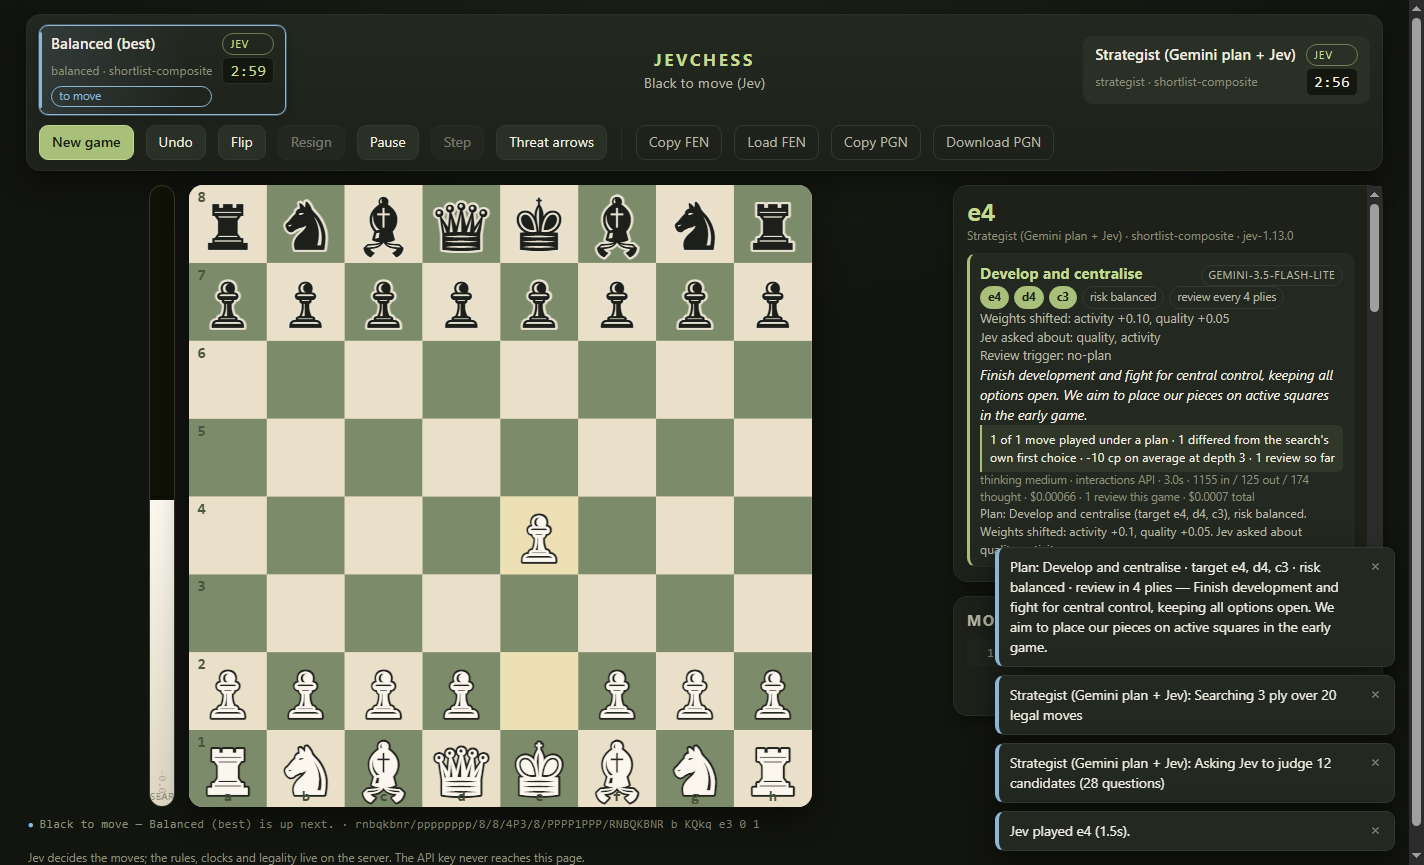
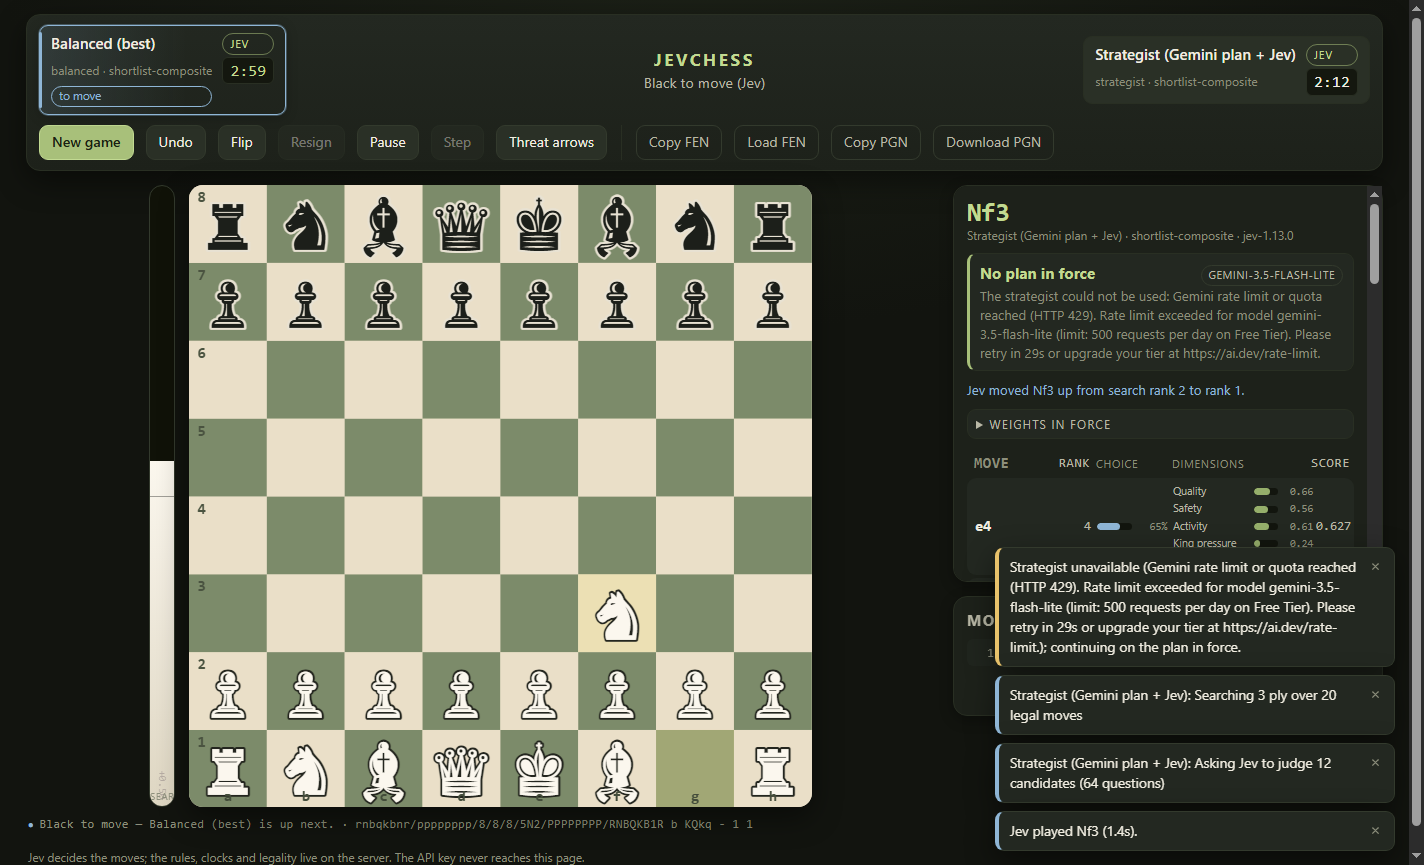
Correct the strategy-layer claim, and let the check tell one game from another
The routing-only match is in (8 clean games, 2 excluded), and it does not
support what the README asserted after the first match. The point estimates
still order the way the hypothesis says — strategist -88 cp per re-judged
deviation (n=37), routing-only -44 cp (n=45), no plan at all -32 cp (n=80) —
but a Welch comparison of the per-move deltas gives |t| = 1.6, 1.2 and 0.6:
none clears |t| > 2. The spread is 95-200 cp per move, so 37-80 samples cannot
separate these. The README now says exactly that, and what *is* robust: the
planner's deviations come out worse about four times as often as better, which
is a statement about Jev plus the plan, not a significance test. Head to head
the planning seat is a coin flip again (4/8).

Two of the ten games hit the harness's 15-minute per-game deadline at 37-56
plies — the machine was busy because I restarted the app server mid-run. They
are excluded from every number above and the README says so; `--max-plies` and
a quiet machine are the fix.

Also fixed here, both found by the check failing rather than by reading:

  * the browser check polled "move list has rows" to detect a new game, which
    the *previous* game already satisfied — so it read the previous game's plan
    panel and reported the routing preset as shifting weights. The page now
    exposes `document.body.dataset.gameId`, and the check waits for that to
    change before it looks at anything;
[…]

diff --git a/src/strategies.js b/src/strategies.js
@@ -206,8 +206,9 @@ export const PRESETS = [
     name: "Strategist (routing only)",
     description:
       "The same Gemini planning step as the Strategist, minus the weight shift: the plan may choose which of " +
-      "Jev's questions to ask, but the preset's weights stay exactly as they are. This is the control for the " +
-      "one part of the strategy layer that measured as costing material.",
+      "Jev's questions to ask, but the preset's weights stay exactly as they are. Built as the control for the " +
+      "weight shift, which carries the largest measured cost so far (-88 cp per re-judged deviation, against " +
+      "-32 cp for the same judge with no plan) — though the samples are too small to separate that from noise.",
     pipeline: "shortlist-composite",
     candidateLimit: 12,
     searchDepth: 3,

diff --git a/public/js/app.js b/public/js/app.js
@@ -241,6 +241,12 @@ function render() {
   const game = store.game;
   const now = localNow();
 
+  // Which game is on screen, as a stable handle. Anything looking at the page from outside — the
+  // browser check, a script, a future "reconnect to this game" feature — otherwise cannot tell a
+  // fresh game from the previous one, which is exactly how a UI test ends up asserting on the
+  // last game's panel after starting a new one.
+  document.body.dataset.gameId = game && game.id ? String(game.id) : "";
+
   renderPlayers(now);
   statusLine.update(game, now);
   evalBar.update(game ? game.evalBar : null);

diff --git a/README.md b/README.md
@@ -176,29 +176,36 @@ Whether this is worth its latency is an open, measurable question:
 npm run selfplay -- --a=strategist --b=balanced --games=20 --budget=300
 ```
 
-**First six games (colour-balanced, `--games=6`, 300 ms/move), measured 2026-09-19:** strategist
-**3 wins, 2 losses, 1 unfinished** — a score of 3/6, i.e. a coin flip, so the plan layer shows no
-head-to-head edge yet. The move-level picture is sharper and less kind, because both seats ask Jev
-and only the planning seat shifts the weights:
+**Two colour-balanced matches so far (300 ms/move, measured 2026-09-19):** the planning seat scores a
+coin flip both times — strategist 3/6 (3 wins, 2 losses, 1 unfinished), routing-only 4/8 over its
+eight clean games (4 wins, 3 losses, 1 ply-capped). Neither planning preset shows a head-to-head edge
+over `balanced` yet. The move-level numbers, where every deviating move is re-judged by a deeper
+search, are the more interesting part — all three seats ask Jev; only the two planning presets put a
+plan on top:
 
-| Seat | Deviating moves re-judged | Better | Worse | Indistinguishable | Mean cost |
+| Seat | Deviations re-judged | Better | Worse | Indistinguishable | Mean cost |
 | --- | --- | --- | --- | --- | --- |
-| strategist (plan in force on 363/725 plies) | 37 | 0 | 17 | 20 | **−88 cp** |
-| balanced (same Jev, no plan) | 32 | 1 | 13 | 18 | −34 cp |
+| strategist (plan in force on 363/725 plies) | 37 | 0 | 17 | 20 | −88 cp |
+| strategist-routing (plan in force on 540/1086 plies) | 45 | 2 | 17 | 26 | −44 cp |
+| balanced, no plan at all (pooled over both runs) | 80 | 3 | 37 | 40 | −32 cp |
 
-So the plan *does* have impact — it deviates on ~50–60% of plies — but the deviations it induces
-cost more than twice as much per move as the ones the same judge produces without a plan, and not
-one of the 37 sampled planning deviations beat the search. The likely culprit is the weight shift
-itself (±0.25 per dimension), not the planning: the plan is at its best when it decides *what to
-ask Jev*, which is also the part that costs nothing in playing strength. The cross-check is to run
-a routing-only variant (the plan sets `askJev` but no `weightDeltas`) against `balanced` over
-twenty games.
+The ordering matches the story that the weight shift is the expensive half — but **these numbers do
+not establish it**. A Welch comparison of the per-move centipawn deltas gives |t| = 1.6 for strategist
+vs no-plan, 1.2 for strategist vs routing-only, and 0.6 for routing-only vs no-plan: none clears
+|t| > 2, because the per-move spread is wide (sd 95–200 cp) and 37–80 samples is not enough. What the
+runs *do* show robustly is the harness's own directional verdict: the planner's deviations come out
+worse about four times as often as better (17 vs 0, then 17 vs 2). That is a statement about Jev's
+judgement plus the plan together, not a significance test. Treat the −88 / −44 / −32 ordering as a
+hypothesis to test with twenty games per arm, not as a result.
 
-With six games the match score is noise; the impact split is the part worth acting on. Also note
-what a draw-heavy session means here: at 300 ms/move both seats defend competently, so even a
-clearly weaker mover often only fails to win rather than loses — "I got a draw" is consistent with
-both "the plan is harmless" and "the plan is wasting material", which is why the deviation cost
-above is the number to watch, and why the plan block in the UI now counts it live.
+Two caveats about the match numbers themselves. Six and eight games settle nothing about strength; and
+both runs contained long games that tested the harness rather than the strategies — one hit the
+200-ply cap, and two hit the 15-minute per-game deadline at 37–56 plies because the machine was busy.
+Those two are excluded from every impact figure above (`--max-plies` and a quiet machine are the fix).
+Also note what a draw-heavy session means here: at 300 ms/move both seats defend competently, so even
+a clearly weaker mover often only fails to win rather than loses — "I got a draw" is consistent with
+both "the plan is harmless" and "the plan is wasting material", which is why the deviation cost above
+is the number to watch, and why the plan block in the UI now counts it live.
 
 If the planning seat does not beat `balanced` over twenty games, the layer is not earning its calls —
 and the honest response would be to drop it rather than keep it for the architecture diagram.
